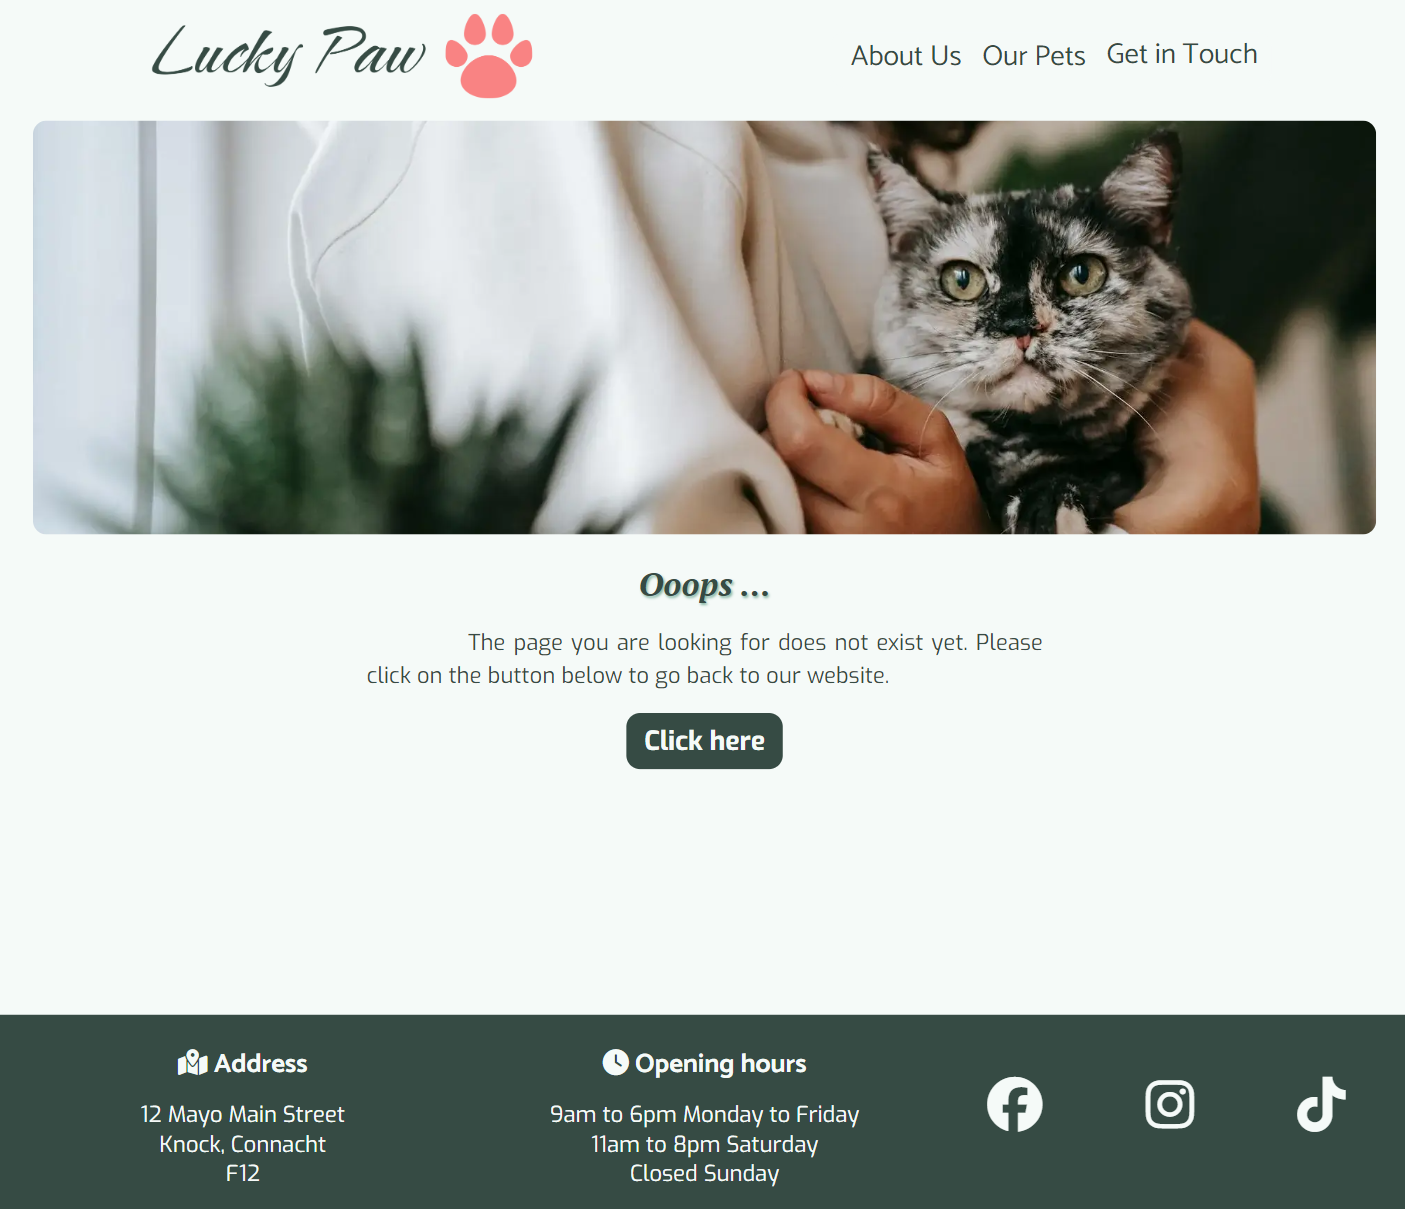
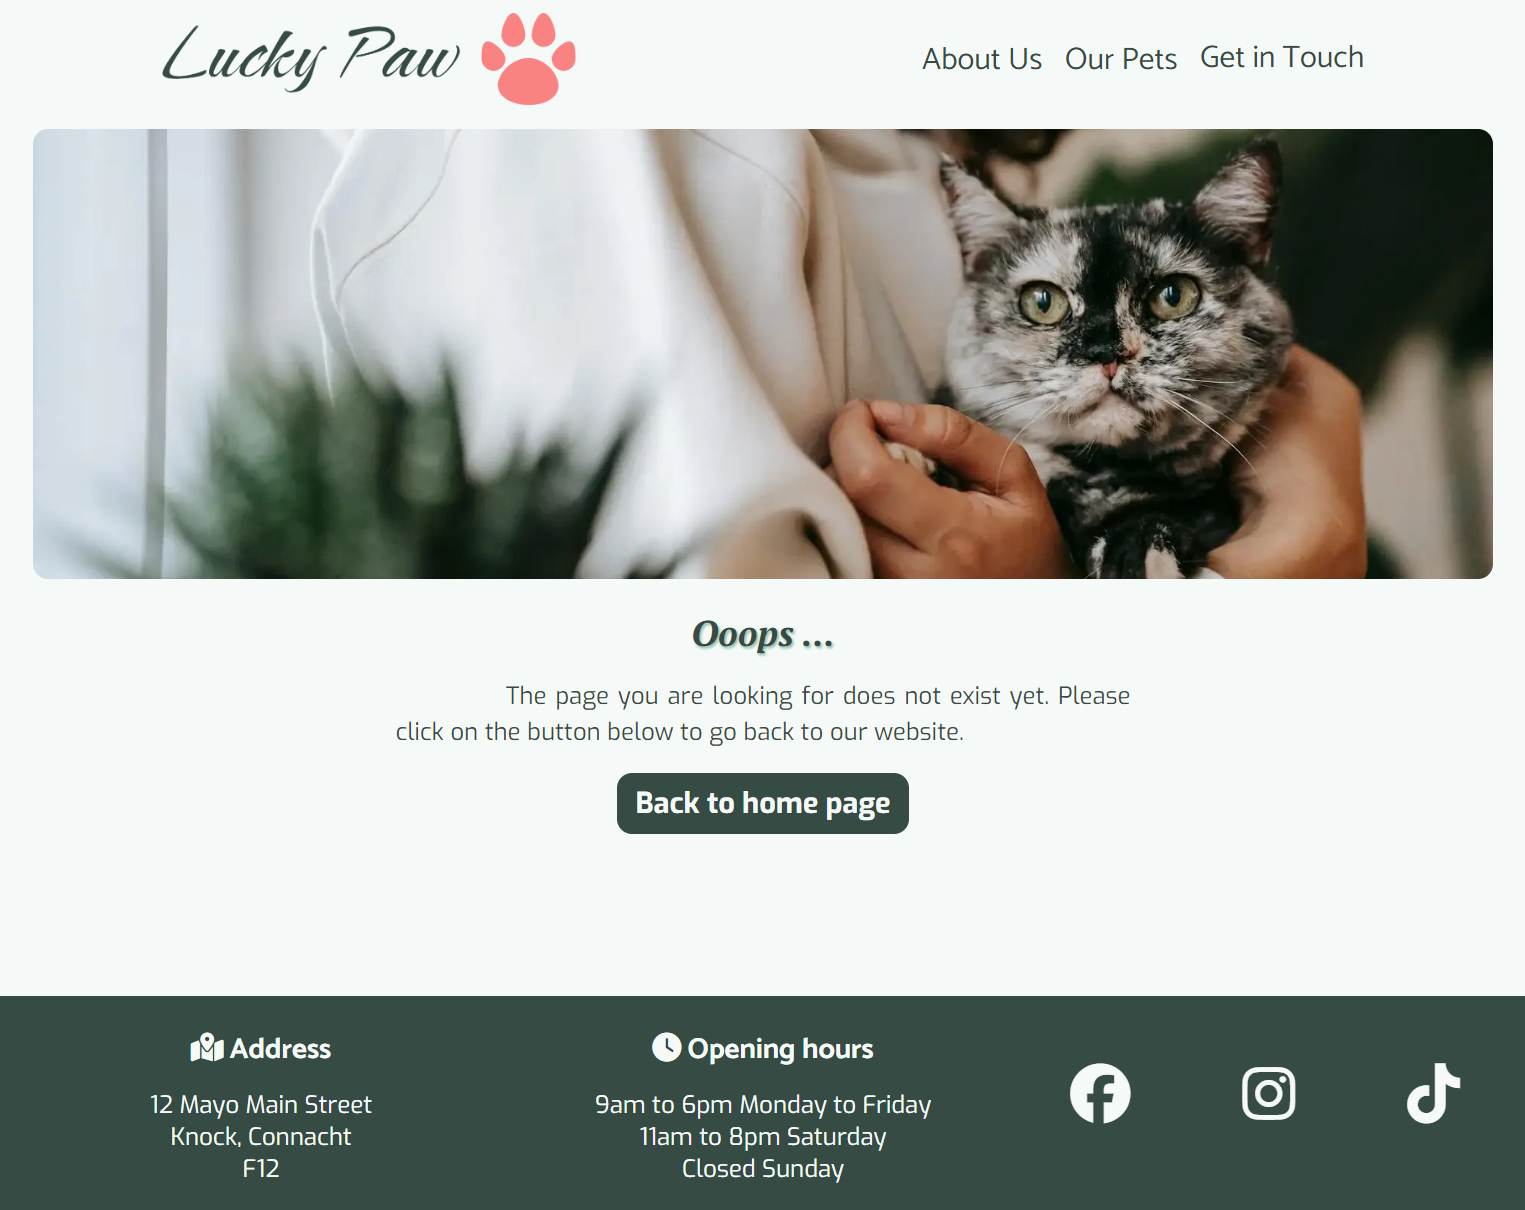
Update Readme screenshots of custom 404 page

diff --git a/README.md b/README.md
@@ -150,7 +150,7 @@ Savannah | &check;
     - [Gallery page](./README-images/gallery_page_validation.png)
     - [Contact page](./README-images/contact_page_validation.png)
     - [Confirmation page](./README-images/confirmation_page_validation.png)   
-    - [404 page](./README-images/404page_validation.png.png)   
+    - [Custom 404 page](./README-images/404page_validation.png.png)   
 - #### CSS
   - No errors or warnings to show. (Except the warning about imported Google Fonts "Imported style sheets are not checked in direct input and file upload modes")
     - [CSS validation](./README-images/css_validation.png)
@@ -161,6 +161,7 @@ Savannah | &check;
     - [Gallery page](./README-images/gallery_page_lighthouse.png)
     - [Contact page](./README-images/contact_page_lighthouse.png)
     - [Confirmation page](./README-images/confirmation_page_lighthouse.png)
+    - [Custom 404 page](./README-images/404page_lighthouse.png)  
 
 ### Functional texting
 
@@ -189,7 +190,7 @@ Select the pet from the list, then click on 'Submit' button of the form on the c
 Fill out ['all sections'](./README-images/form_all_sections.png) as per the format and requirements, then click on 'Submit' button of the form on the contact page | Open the confirmation page with ['thank you'](./README-images/form_thank_you_message.png) message | &check;
 Click on 'Back to home page' button on the confirmation page  | Open the home page | &check;
 Use broken link to access the website, for example 'https://vl-ocean.github.io/lucky-paw/ruby' | Open custom 404 page | &check;
-Click on 'Click here' button on the custom 404 page  | Open the home page | &check;
+Click on 'Back to home page' button on the custom 404 page  | Open the home page | &check;
 
 ### User Stories testing
 
